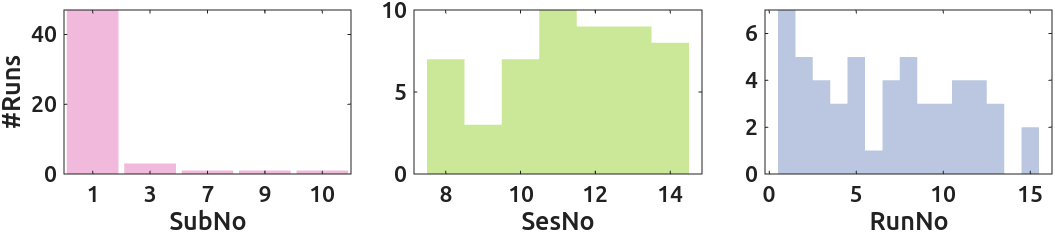
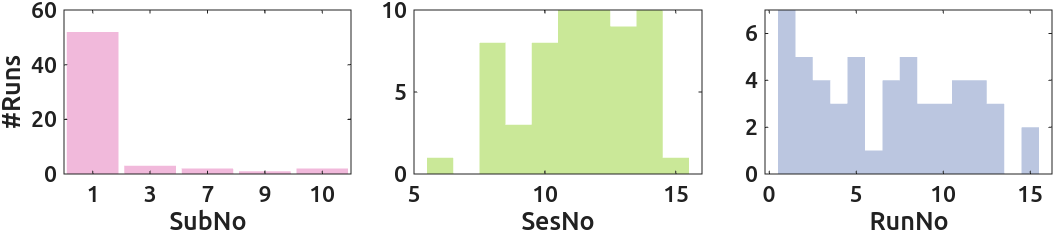
++

diff --git a/pages/ica-kitchen/sub-01.md b/pages/ica-kitchen/sub-01.md
@@ -23,6 +23,9 @@ parent: ica-kitchen
 ### sub-01_ses-14_run-01
 ![leaking-run](figs/sub-01_ses-14_run-01.png)
 
+### sub-01_ses-14_rest
+![leaking-run](figs/sub-01_ses-14_rest.png)
+
 ### sub-01_ses-13_run-11
 ![leaking-run](figs/sub-01_ses-13_run-11.png)
 
@@ -64,6 +67,9 @@ parent: ica-kitchen
 
 ### sub-01_ses-12_run-01
 ![leaking-run](figs/sub-01_ses-12_run-01.png)
+
+### sub-01_ses-12_rest
+![leaking-run](figs/sub-01_ses-12_rest.png)
 
 ### sub-01_ses-11_run-15
 ![leaking-run](figs/sub-01_ses-11_run-15.png)
@@ -116,6 +122,9 @@ parent: ica-kitchen
 ### sub-01_ses-10_run-02
 ![leaking-run](figs/sub-01_ses-10_run-02.png)
 
+### sub-01_ses-10_rest
+![leaking-run](figs/sub-01_ses-10_rest.png)
+
 ### sub-01_ses-09_run-12
 ![leaking-run](figs/sub-01_ses-09_run-12.png)
 
@@ -145,4 +154,10 @@ parent: ica-kitchen
 
 ### sub-01_ses-08_run-01
 ![leaking-run](figs/sub-01_ses-08_run-01.png)
+
+### sub-01_ses-08_rest
+![leaking-run](figs/sub-01_ses-08_rest.png)
+
+### sub-01_ses-06_rest
+![leaking-run](figs/sub-01_ses-06_rest.png)
 

diff --git a/pages/ica-kitchen/sub-07.md b/pages/ica-kitchen/sub-07.md
@@ -5,6 +5,9 @@ nav_order: 7
 parent: ica-kitchen
 ---
 # leaking runs: sub-07
+### sub-07_ses-15_rest
+![leaking-run](figs/sub-07_ses-15_rest.png)
+
 ### sub-07_ses-13_run-01
 ![leaking-run](figs/sub-07_ses-13_run-01.png)
 

diff --git a/pages/ica-kitchen/sub-10.md b/pages/ica-kitchen/sub-10.md
@@ -8,3 +8,6 @@ parent: ica-kitchen
 ### sub-10_ses-14_run-11
 ![leaking-run](figs/sub-10_ses-14_run-11.png)
 
+### sub-10_ses-14_rest
+![leaking-run](figs/sub-10_ses-14_rest.png)
+
